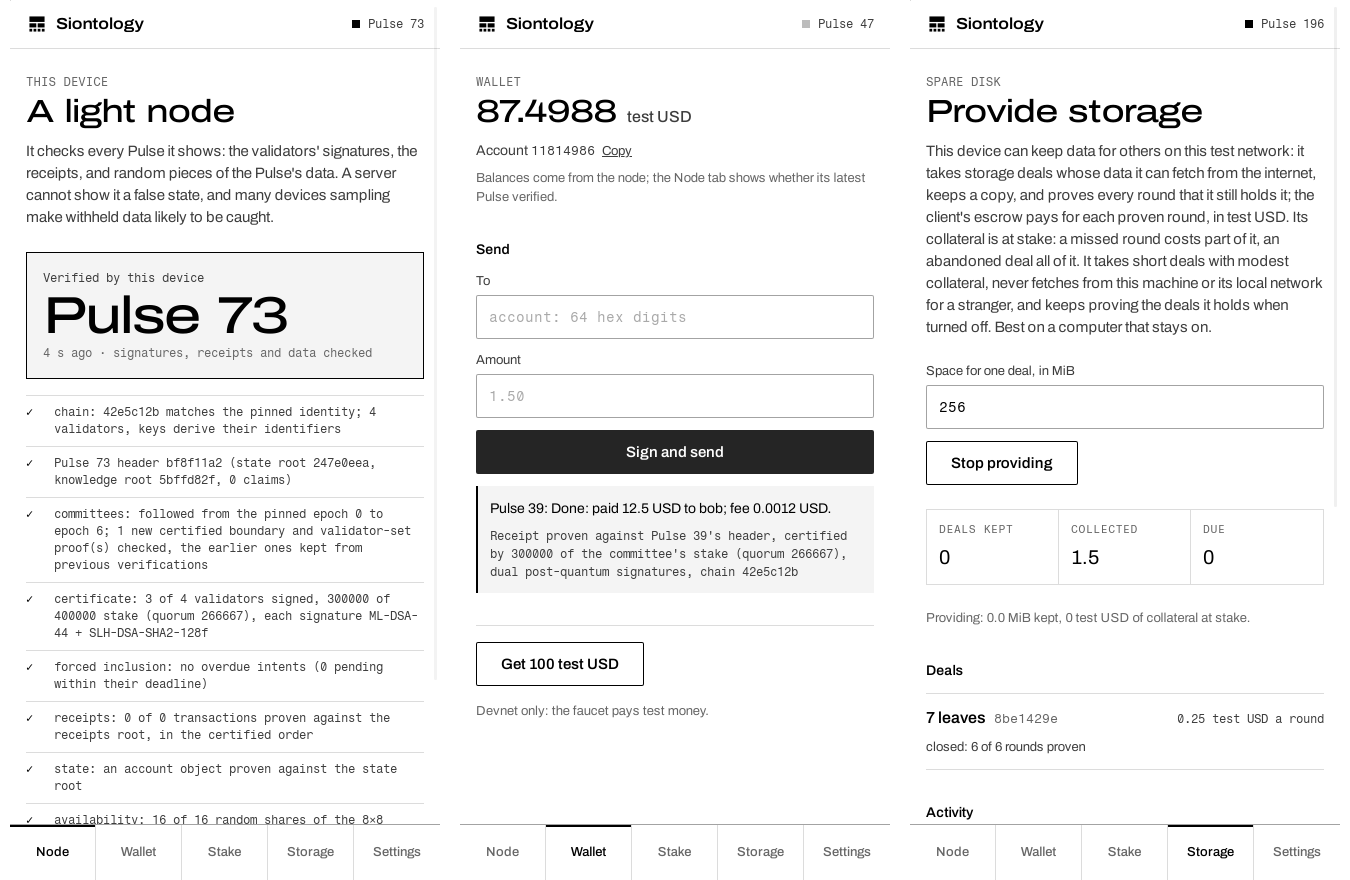
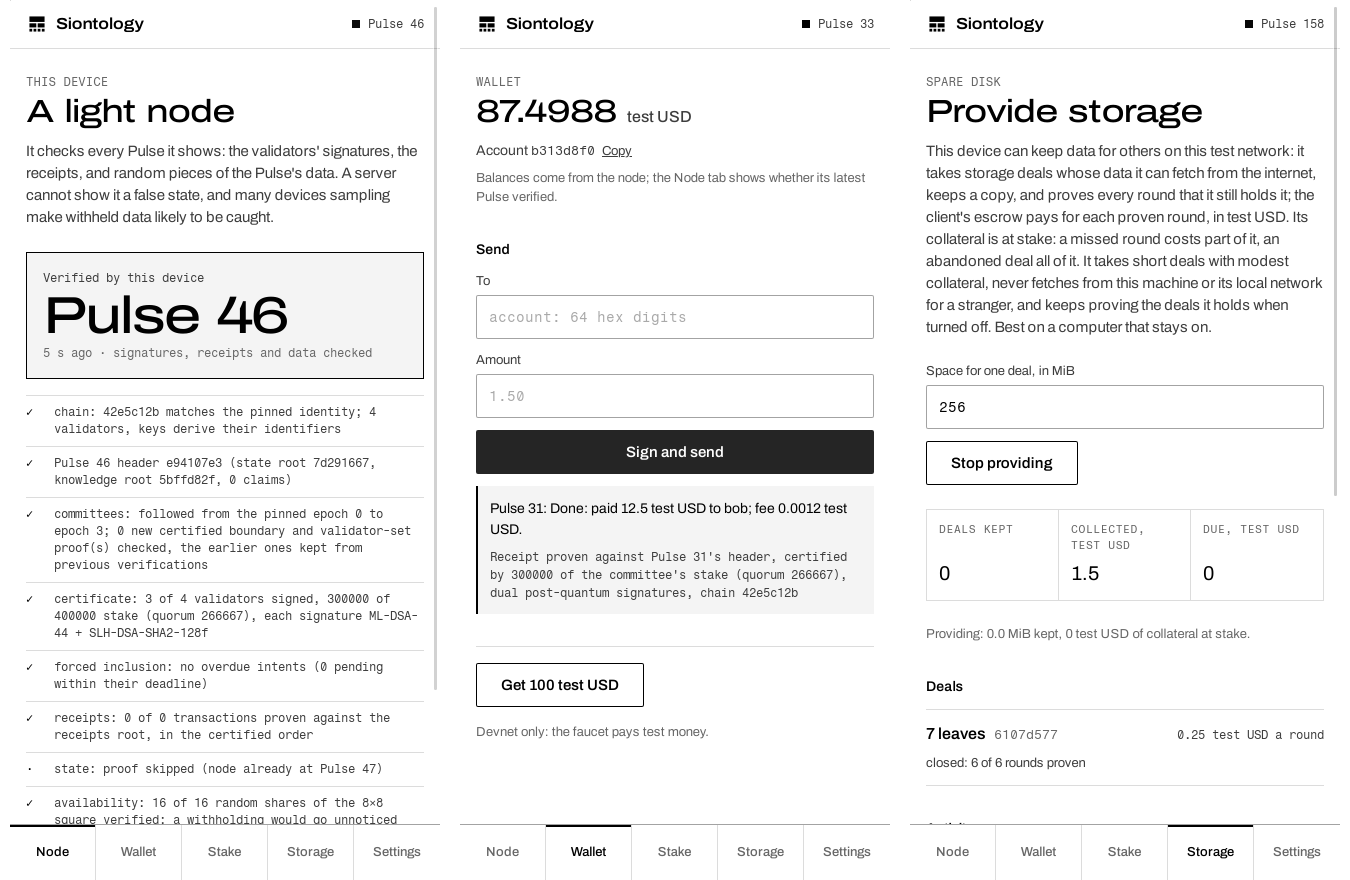
Align the app's tallies and show the labels in the book's screenshot
A tally cell whose label wraps no longer pushes its value below the
others'. The screenshot of the Node, Wallet and Storage tabs is retaken
from a devnet run: a payment's proven receipt and a deal kept and proven
for six rounds, every amount in test USD.

Claude-Session: https://claude.ai/code/session_01AAY9TAyPiowS6PiDx3pwjK

diff --git a/apps/sion-app/ui/style.css b/apps/sion-app/ui/style.css
@@ -175,7 +175,7 @@ h2 {
 .checks li.info::before { content: "·"; }
 
 .tally { display: grid; grid-template-columns: repeat(3, 1fr); margin: var(--space-5) 0; border: 1px solid var(--color-rule); }
-.tally div { padding: var(--space-3); border-right: 1px solid var(--color-rule); min-width: 0; }
+.tally div { padding: var(--space-3); border-right: 1px solid var(--color-rule); min-width: 0; display: flex; flex-direction: column; justify-content: space-between; }
 .tally div:last-child { border-right: 0; }
 .tally dt { font-family: var(--font-mono); font-size: 0.6875rem; color: var(--color-ink-3); text-transform: uppercase; letter-spacing: 0.04em; }
 .tally dd { margin: var(--space-1) 0 0; font-size: 1.25rem; font-variant-numeric: tabular-nums; overflow: hidden; text-overflow: ellipsis; }
